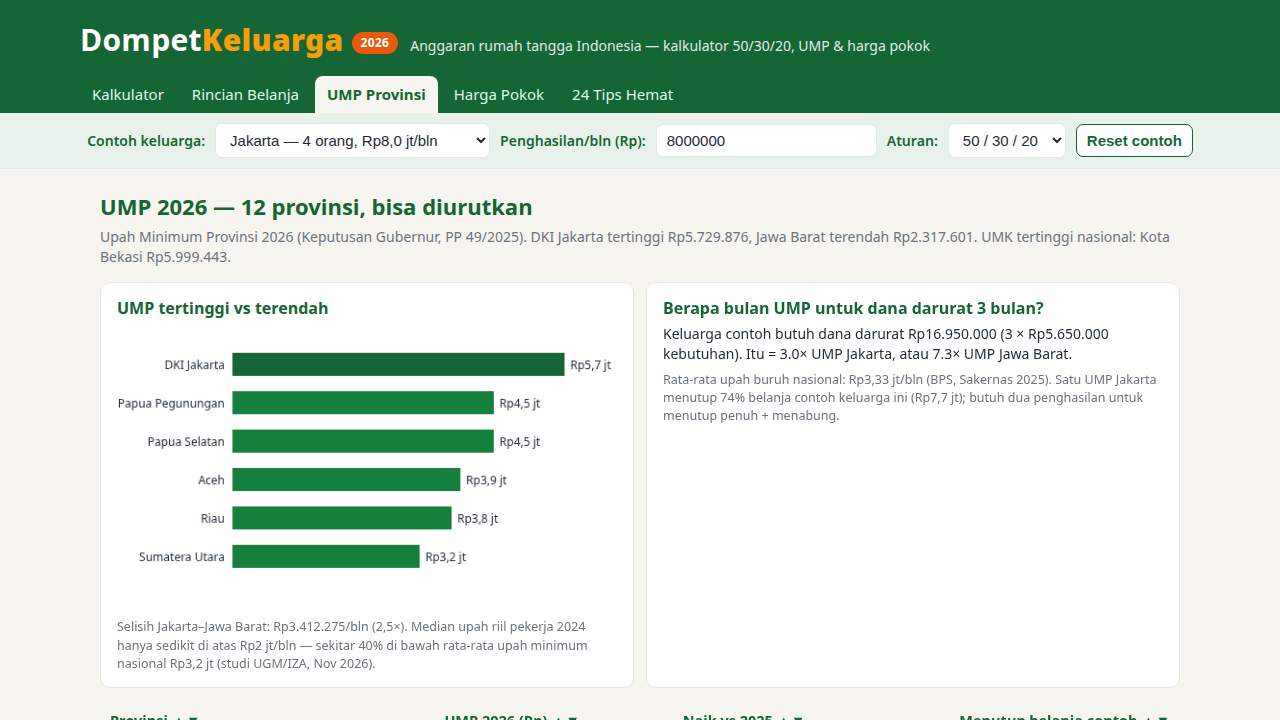
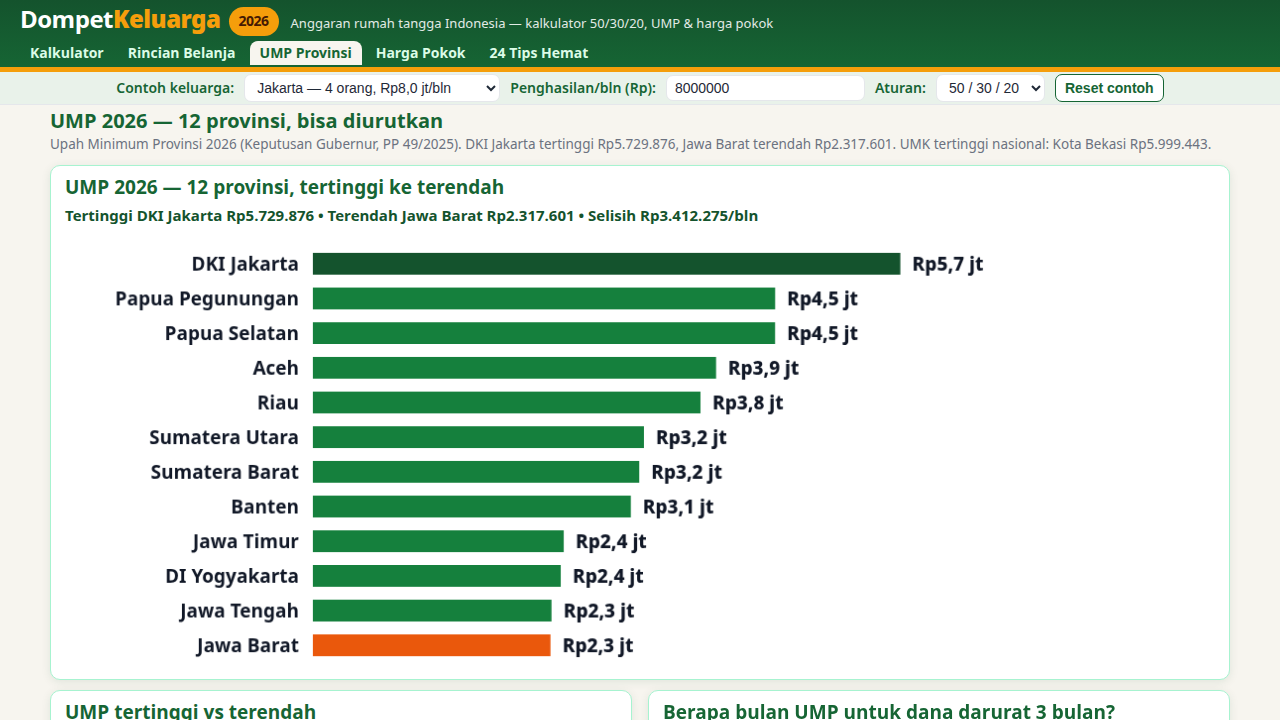
Budget v2: denser hero (6 stat cards + verdict strip), 3-preset comparison strip, UMP bar chart, top-5 tips strip, bigger charts + labels, stronger visual identity. Playtest PASS, dossier byte-identical.

diff --git a/app/index.html b/app/index.html
@@ -75,6 +75,67 @@ footer .wrap p{margin:3px 0}
   table{font-size:13px}
   input.num{width:105px}
 }
+/* ===== DompetKeluarga v2 (2026-11-28): denser hero, bolder identity ===== */
+.wrap{max-width:1240px!important}
+main{max-width:1220px!important;padding-top:2px!important}
+header{background:linear-gradient(180deg,#14532d 0%,#166534 100%)!important;border-bottom:5px solid #f59e0b!important;padding:2px 0 2px!important}
+header h1{font-size:24px!important;letter-spacing:-.5px!important}
+header .badge{font-size:14px!important;padding:4px 10px!important;background:#f59e0b!important;color:#451a03!important}
+.brand p{font-size:13px!important}
+#nav{margin-top:4px!important}
+#nav a{font-size:14px!important;font-weight:700!important;padding:2px 10px!important}
+.controls{padding:2px 0!important;gap:8px!important;flex-wrap:wrap}
+.controls input,.controls select{font-size:14px!important;padding:4px 8px!important}
+h2{font-size:20px!important;line-height:1.2!important}
+h3{font-size:19px!important}
+#page-kalkulator h2{margin:2px 0!important}
+#page-kalkulator .sub{display:none!important}
+.hero{padding:6px 8px!important;gap:0!important}
+.hero>div{padding:3px 12px!important;line-height:1.25!important}
+.hero .hk{font-size:11px!important}
+.hero .hv{font-size:20px!important;white-space:nowrap!important}
+.hero .hd{display:none!important}
+#page-kalkulator .cards{display:none!important}
+#verdict{display:none!important}
+#page-kalkulator .grid2{margin:2px 0!important}
+.grid2{gap:16px!important}
+.card{border:1px solid #a7f3d0!important;box-shadow:0 2px 10px rgba(20,83,45,.10)!important}
+.v2chartcard h3{margin:2px 0 4px!important;font-size:17px!important}
+.v2chartcard{padding:6px 14px!important}
+.v2row6{display:grid;grid-template-columns:repeat(6,1fr);gap:8px;margin:6px 0}
+.v2card{background:#14532d;border-radius:12px;padding:6px 10px 5px;color:#fff;border-bottom:4px solid #f59e0b}
+.v2card.hot{border-bottom-color:#fde047}
+.v2lab{font-size:11px;font-weight:700;letter-spacing:.4px;text-transform:uppercase;opacity:.92}
+.v2num{font-size:21px;font-weight:800;color:#fbbf24;line-height:1.1;margin-top:2px;white-space:nowrap}
+.v2card.hot .v2num{color:#fde047}
+.v2sub{font-size:11px;opacity:.85;margin-top:2px}
+.v2preset{display:grid;grid-template-columns:repeat(3,1fr);gap:8px;margin:6px 0}
+.v2pcell{background:#fff;border:2px solid #d1d5db;border-radius:12px;padding:5px 10px;cursor:pointer}
+.v2pcell.on{border-color:#f59e0b;background:#fffbeb;box-shadow:0 2px 8px rgba(245,158,11,.25)}
+.v2pcity{font-size:16px;font-weight:800;color:#14532d}
+.v2pline{font-size:13px;color:#374151;margin-top:2px;white-space:nowrap}
+.v2pline b{color:#111827}
+.v2verdict{background:#f59e0b;color:#451a03;font-size:14px;font-weight:800;line-height:1.3;padding:6px 12px;border-radius:12px;margin:6px 0}
+.v2chartcard canvas{width:100%!important;height:auto!important;display:block}
+.v2cap{font-size:14px;font-weight:700;color:#1f2937;margin-top:6px;display:flex;flex-wrap:wrap;gap:2px 14px}
+.v2cap i{display:inline-block;width:12px;height:12px;border-radius:3px;margin-right:6px}
+.v2umpcard{margin:10px 0}
+.v2umpcard canvas{width:100%!important;height:auto!important;display:block}
+.v2umpnote{font-size:15px;font-weight:700;color:#14532d;margin:2px 0 8px}
+.v2tips{background:#14532d;border-radius:12px;padding:14px 16px;margin:10px 0;color:#fff}
+.v2tipshead{font-size:19px;font-weight:800;color:#fbbf24}
+.v2tipssub{font-size:14px;opacity:.92;margin:4px 0 10px}
+.v2tiprow{display:flex;align-items:baseline;gap:10px;background:rgba(255,255,255,.08);border-radius:8px;padding:9px 12px;margin-top:6px}
+.v2tiprank{background:#f59e0b;color:#451a03;font-weight:800;border-radius:50%;width:24px;height:24px;display:inline-flex;align-items:center;justify-content:center;flex:0 0 24px;font-size:14px}
+.v2tipname{flex:1;font-size:15px;font-weight:600}
+.v2tipamt{font-weight:800;color:#fbbf24;font-size:16px;white-space:nowrap}
+@media(max-width:640px){
+.v2row6{grid-template-columns:repeat(2,1fr)}
+.v2preset{grid-template-columns:1fr}
+.v2num{font-size:26px}
+.v2verdict{font-size:16px}
+header h1{font-size:28px!important}
+}
 </style>
 </head>
 <body>
@@ -289,6 +350,206 @@ $('q').addEventListener('input',renderExp);$('catFilter').addEventListener('chan
 sortHandler('expTable',expSort,renderExp);sortHandler('umpTable',umpSort,renderUMP);sortHandler('priceTable',priceSort,renderPrices);
 window.addEventListener('hashchange',showPage);
 showPage();renderAll();
+</script>
+<script>
+/* DompetKeluarga v2 (2026-11-28): denser hero, preset strip, UMP-12 chart, top-5 tips.
+   Reads ONLY live v1 values (DOM text + the globals sums/state/ruleParts/fmt/fmtShort/UMP);
+   no v1 data is retyped here. */
+(function(){
+'use strict';
+var $=function(id){return document.getElementById(id)};
+var $$=function(s,r){return Array.prototype.slice.call((r||document).querySelectorAll(s))};
+function txt(el){return el?el.textContent.trim():''}
+function el(tag,cls,html){var e=document.createElement(tag);if(cls)e.className=cls;if(html!=null)e.innerHTML=html;return e}
+function esc(s){return String(s).replace(/&/g,'&amp;').replace(/</g,'&lt;').replace(/>/g,'&gt;')}
+function closestClass(e,cls){while(e&&!(e.classList&&e.classList.contains(cls)))e=e.parentElement;return e}
+function heroBasketVal(){var hb=$('heroBasket');if(!hb)return '';var cell=hb.parentElement;var hv=cell?cell.querySelector('.hv'):null;return hv?txt(hv):txt(hb);}
+function heroBasketNote(){var hb=$('heroBasket');var n=hb?txt(hb):'';return (n&&n!==heroBasketVal())?n:'keluarga 4 orang';}
+var kalk=$('page-kalkulator');
+var cardsGrid=kalk.querySelector('.cards');
+
+/* ---------- 1. six big stat cards (mirror live v1 values) ---------- */
+var cardsBox=el('div','v2row6');cardsBox.id='v2cards';
+var cardDefs=[
+ {lab:'Penghasilan / bln',get:function(){return txt($('cIncome'))},sub:function(){return txt($('cIncomeNote'))}},
+ {lab:'Total belanja / bln',get:function(){return txt($('cSpend'))},sub:function(){return txt($('cSpendNote'))}},
+ {lab:'Sisa / bln',get:function(){return txt($('cSurplus'))},sub:function(){return txt($('cSurplusNote'))},hot:true},
+ {lab:'Tabungan / bln',get:function(){return txt($('cSave'))},sub:function(){return txt($('cSaveNote'))}},
+ {lab:'Keranjang pokok / bln',get:function(){return heroBasketVal()},sub:function(){return heroBasketNote()}},
+ {lab:'Tabungan 12 bulan',get:function(){return txt($('heroSave12'))},sub:function(){return txt($('heroSave12Note'))}}
+];
+var cardNodes=cardDefs.map(function(d){
+  var c=el('div','v2card'+(d.hot?' hot':''));
+  c.appendChild(el('div','v2lab',esc(d.lab)));
+  var n=el('div','v2num');c.appendChild(n);
+  var s=el('div','v2sub');c.appendChild(s);
+  cardsBox.appendChild(c);
+  return {d:d,n:n,s:s};
+});
+function mirrorCards(){cardNodes.forEach(function(cn){cn.n.textContent=cn.d.get();cn.s.textContent=cn.d.sub();});}
+cardsGrid.parentNode.insertBefore(cardsBox,cardsGrid);
+
+/* ---------- 2. preset comparison strip (numbers computed by v1 itself) ---------- */
+var strip=el('div','v2preset');strip.id='v2presets';
+var presetCount=0;
+function computePresets(){
+  var sel=$('preset');if(!sel)return;
+  var cur=sel.value;
+  strip.innerHTML='';presetCount=0;
+  $$('option',sel).forEach(function(opt){
+    sel.value=opt.value;
+    sel.dispatchEvent(new Event('change',{bubbles:true}));
+    var city=opt.textContent.split('—')[0].trim();
+    var cell=el('div','v2pcell'+(opt.value===cur?' on':''));
+    cell.appendChild(el('div','v2pcity',esc(city)));
+    cell.appendChild(el('div','v2pline','Gaji <b>'+esc(txt($('cIncome')))+'</b> • Belanja <b>'+esc(txt($('cSpend')))+'</b>'));
+    cell.appendChild(el('div','v2pline','Sisa <b>'+esc(txt($('cSurplus')))+'</b> • Tabungan <b>'+esc(txt($('cSave')))+'</b>'));
+    cell.addEventListener('click',function(){sel.value=opt.value;sel.dispatchEvent(new Event('change',{bubbles:true}));});
+    strip.appendChild(cell);presetCount++;
+  });
+  sel.value=cur;
+  sel.dispatchEvent(new Event('change',{bubbles:true}));
+}
+cardsGrid.parentNode.insertBefore(strip,cardsGrid);
+
+/* ---------- 3. verdict banner (mirrors the v1 verdict text) ---------- */
+var banner=el('div','v2verdict');banner.id='v2verdict';
+function mirrorVerdict(){banner.textContent=txt($('verdict'));}
+cardsGrid.parentNode.insertBefore(banner,cardsGrid);
+
+/* ---------- 4. bigger charts: own donut + bars on 2x canvases ---------- */
+var dCard=el('div','card v2chartcard');
+dCard.appendChild(el('h3',null,'Alokasi penghasilan (% dari penghasilan)'));
+var dCv=el('canvas');dCv.id='v2donut';dCv.width=620;dCv.height=175;
+dCard.appendChild(dCv);
+var bCard=el('div','card v2chartcard');
+bCard.appendChild(el('h3',null,'Aktual vs target'));
+var bCv=el('canvas');bCv.id='v2bars';bCv.width=620;bCv.height=170;
+bCard.appendChild(bCv);
+var g2=closestClass($('donut'),'grid2');
+['donut','barTarget'].forEach(function(id){var c=$(id);if(c&&c.parentElement)c.parentElement.style.display='none';});
+if(g2){g2.appendChild(dCard);g2.appendChild(bCard);}
+else{banner.after(dCard);dCard.after(bCard);}
+function drawMyDonut(){
+  var c=$('v2donut');if(!c||typeof sums!=='function')return;var x=c.getContext('2d');
+  var s=sums();var inc=(typeof state!=='undefined'&&state.income)||1;var sur=inc-s.total;
+  var tot=sur>=0?inc:(s.total||1);
+  var vals=sur>=0?[s.needs,s.wants,s.save,sur]:[s.needs,s.wants,s.save];
+  var cols=['#14532d','#ea580c','#0284c7','#d1d5db'];
+  var labs=['Kebutuhan','Keinginan','Tabungan','Sisa'];
+  x.clearRect(0,0,c.width,c.height);
+  var cx=310,cy=88,R=70,r=35,a=-Math.PI/2;
+  vals.forEach(function(v,i){var sw=v/tot*Math.PI*2;x.beginPath();x.moveTo(cx,cy);x.arc(cx,cy,R,a,a+sw);x.closePath();x.fillStyle=cols[i];x.fill();a+=sw;});
+  x.beginPath();x.arc(cx,cy,r,0,Math.PI*2);x.fillStyle='#fff';x.fill();
+  var a2=-Math.PI/2;
+  vals.forEach(function(v,i){var sw=v/tot*Math.PI*2;var sh=v/tot;if(sh>=0.08){var ma=a2+sw/2,rr=60;var lx=cx+Math.cos(ma)*rr,ly=cy+Math.sin(ma)*rr;x.font='800 18px system-ui';x.textAlign='center';x.textBaseline='middle';x.lineWidth=4;x.strokeStyle='rgba(0,0,0,0.35)';x.strokeText((sh*100).toFixed(1)+'%',lx,ly);x.fillStyle='#fff';x.fillText((sh*100).toFixed(1)+'%',lx,ly);}a2+=sw;});
+  x.fillStyle='#14532d';x.font='800 22px system-ui';x.textAlign='center';x.textBaseline='alphabetic';
+  x.fillText(fmtShort(tot),cx,cy-2);
+  x.font='600 12px system-ui';x.fillStyle='#6b7280';x.fillText('per bulan',cx,cy+18);
+}
+function drawMyBars(){
+  var c=$('v2bars');if(!c||typeof sums!=='function'||typeof ruleParts!=='function')return;var x=c.getContext('2d');
+  var s=sums();var inc=(typeof state!=='undefined'&&state.income)||1;
+  var rp=ruleParts();
+  var actual=[s.needs/inc*100,s.wants/inc*100,s.save/inc*100];
+  var target=[rp.needs,rp.wants,rp.save];
+  var labels=['Kebutuhan','Keinginan','Tabungan'];
+  x.clearRect(0,0,c.width,c.height);
+  var max=Math.max.apply(null,actual.concat(target,[10]))*1.15;
+  var bw=72,gap=60,base=145,scale=95;
+  labels.forEach(function(lb,i){
+    var bx=55+i*(bw*2+gap);
+    var ah=actual[i]/max*scale,th=target[i]/max*scale;
+    x.fillStyle='#14532d';x.fillRect(bx,base-ah,bw,ah);
+    x.fillStyle='#f59e0b';x.fillRect(bx+bw+8,base-th,bw,th);
+    x.fillStyle='#111827';x.font='800 18px system-ui';x.textAlign='center';
+    x.fillText(actual[i].toFixed(1)+'%',bx+bw/2,Math.max(26,base-ah-8));
+    x.fillText(target[i].toFixed(1)+'%',bx+bw*1.5+8,Math.max(26,base-th-8));
+    x.font='700 15px system-ui';x.fillText(lb,bx+bw,162);
+  });
+  x.fillStyle='#6b7280';x.font='700 13px system-ui';x.textAlign='left';
+  x.fillText('■ Aktual   ■ Target',24,20);
+}
+
+/* ---------- 5. UMP 2026 — full 12-province bar chart ---------- */
+var umpCard=el('div','card v2umpcard');
+umpCard.appendChild(el('h3',null,'UMP 2026 — 12 provinsi, tertinggi ke terendah'));
+var umpNote=el('div','v2umpnote');umpCard.appendChild(umpNote);
+var uCv=el('canvas');uCv.id='v2ump';uCv.width=1160;uCv.height=440;
+umpCard.appendChild(uCv);
+var provSec=$('page-provinsi');
+var provIntro=provSec.querySelector('p');
+if(provIntro)provIntro.after(umpCard);else provSec.prepend(umpCard);
+function drawUmp12(){
+  var c=$('v2ump');if(!c||typeof UMP==='undefined')return;var x=c.getContext('2d');
+  var rows=UMP.slice().sort(function(a,b){return b.ump-a.ump});
+  x.clearRect(0,0,c.width,c.height);
+  var max=rows[0].ump*1.08,top=18,rowH=35,barH=22,x0=250,maxW=640;
+  rows.forEach(function(p,i){
+    var y=top+i*rowH;
+    var w=p.ump/max*maxW;
+    x.fillStyle=i===0?'#14532d':(i===rows.length-1?'#ea580c':'#15803d');
+    x.fillRect(x0,y,w,barH);
+    x.fillStyle='#111827';x.font='700 19px system-ui';x.textAlign='right';
+    x.fillText(p.prov,x0-14,y+18);
+    x.textAlign='left';x.font='800 19px system-ui';
+    x.fillText(fmtShort(p.ump),x0+w+12,y+18);
+  });
+  umpNote.textContent='Tertinggi '+rows[0].prov+' '+fmt(rows[0].ump)+'  •  Terendah '+rows[rows.length-1].prov+' '+fmt(rows[rows.length-1].ump)+'  •  Selisih '+fmt(rows[0].ump-rows[rows.length-1].ump)+'/bln';
+}
+
+/* ---------- 6. top-5 tips strip (parsed from the live tips list) ---------- */
+var tipsStrip=el('div','v2tips');tipsStrip.id='v2tips';
+var topTipName='';
+function buildTips(){
+  var tips=$$('.tip').map(function(t){
+    var b=t.querySelector('b');
+    var sv=t.querySelector('.save');
+    var name=b?b.textContent.trim():'';
+    var m=sv?sv.textContent.match(/([\d.]+)/):null;
+    if(!m||!name)return null;
+    return {name:name,amt:Number(m[1].replace(/\./g,''))};
+  }).filter(Boolean).sort(function(a,b){return b.amt-a.amt;});
+  var top=tips.slice(0,5);
+  if(top.length)topTipName=top[0].name;
+  var sumTop=top.reduce(function(a,t){return a+t.amt},0);
+  tipsStrip.innerHTML='';
+  tipsStrip.appendChild(el('div','v2tipshead','TOP 5 TIPS HEMAT — paling besar hematnya'));
+  tipsStrip.appendChild(el('div','v2tipssub','Top 5 ini hemat '+fmt(sumTop)+'/bln — dari total potensi '+txt($('tipsTotal'))+'. Centang di bawah kalau sudah dilakukan.'));
+  top.forEach(function(t,i){
+    var row=el('div','v2tiprow');
+    row.appendChild(el('span','v2tiprank',String(i+1)));
+    row.appendChild(el('span','v2tipname',esc(t.name)));
+    row.appendChild(el('span','v2tipamt',fmt(t.amt)+'/bln'));
+    tipsStrip.appendChild(row);
+  });
+  return top;
+}
+var tipsSec=$('page-tips');
+var tipsIntro=tipsSec.querySelector('p');
+if(tipsIntro)tipsIntro.after(tipsStrip);else tipsSec.prepend(tipsStrip);
+
+/* ---------- 7. sync + init ---------- */
+var v2busy=false;
+function v2sync(){
+  if(v2busy)return;v2busy=true;
+  try{
+    computePresets();
+    mirrorCards();
+    mirrorVerdict();
+    drawMyDonut();drawMyBars();
+  }catch(err){console.error('v2sync',err);}
+  v2busy=false;
+}
+var _renderAll=window.renderAll;
+if(typeof _renderAll==='function'){
+  window.renderAll=function(){var r=_renderAll.apply(this,arguments);v2sync();return r;};
+}
+buildTips();drawUmp12();v2sync();
+var st=el('div');st.id='v2selftest';st.style.display='none';
+st.textContent='V2OK cards='+$('v2cards').children.length+' presets='+presetCount+' tipRows='+$$('#v2tips .v2tiprow').length+' umpRows='+(typeof UMP!=='undefined'?UMP.length:0)+' donutBottom='+Math.round($('v2donut').getBoundingClientRect().bottom)+' topTip='+topTipName+' verdictLen='+banner.textContent.length;
+document.body.appendChild(st);
+})();
 </script>
 </body>
 </html>

diff --git a/README.md b/README.md
@@ -43,3 +43,7 @@ mkdir -p out && MAKEFUN_OUTPUT_DIR=out node main.ts
 
 - Competition: https://make.fun/competitions/best-household-budget-site-20261126-1457
 - License: MIT
+
+## v2 (2026-11-28, belum submit)
+
+Overhaul presentasi untuk screenshot: hero 6 kartu stat gelap + strip perbandingan 3 preset (Jakarta/Bandung/Yogyakarta, angka dihitung live oleh preset v1) + banner verdict oranye + donat & bar aktual-vs-target baru dengan label % di dalam irisan + bar chart UMP 12 provinsi + strip top-5 tips hemat. Semua angka baru dibaca dari nilai live v1 (DOM + global yang sama) — tidak ada data baru yang diketik. `app/index.html` kini 555 baris. Playtest: 5 rute lolos, 0 JS error; dossier byte-identical (sha256 a62d481b2c9fa3960154404f0c27a87c4398ab08f0788d69ac264e436fb23648).
